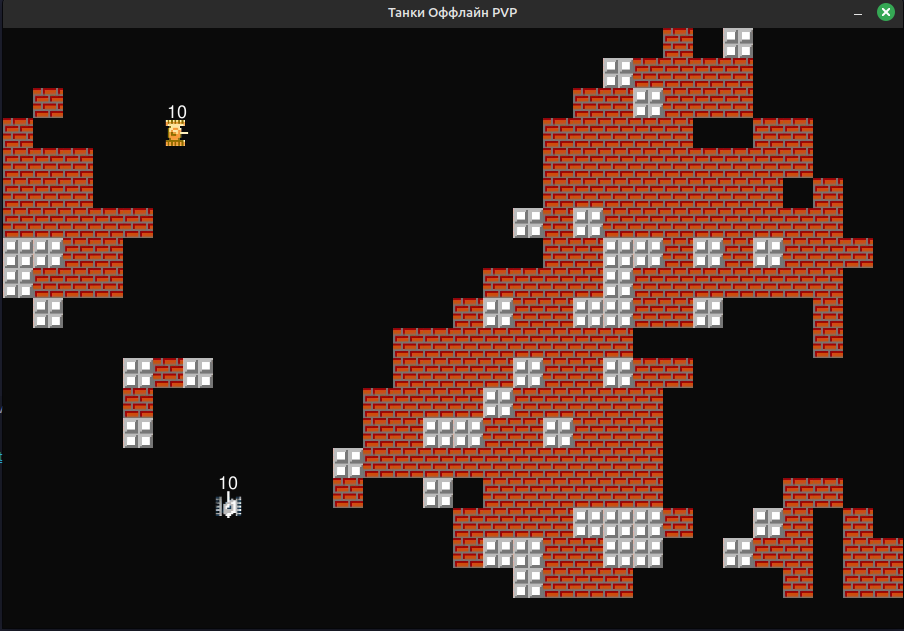
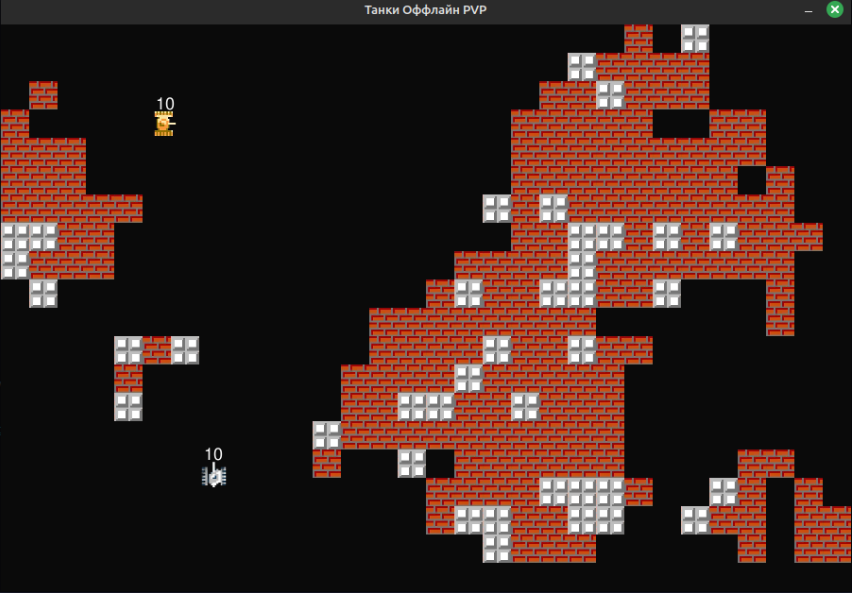
add online game

diff --git a/models.py b/models.py
@@ -2,6 +2,8 @@ import random
 import time
 import pygame
 
+from utils import on_map, get_free_position
+
 delta = [(0, -1), (-1, 0), (0, 1), (1, 0)]
 ways = {pygame.K_UP: (0, -1, 0), pygame.K_DOWN: (0, 1, 2), pygame.K_LEFT: (-1, 0, 1), pygame.K_RIGHT: (1, 0, 3),
         pygame.K_w: (0, -1, 0), pygame.K_s: (0, 1, 2), pygame.K_a: (-1, 0, 1), pygame.K_d: (1, 0, 3)}
@@ -14,20 +16,22 @@ star_surface = pygame.transform.scale(pygame.image.load('images/star.png'), (10,
 
 
 class Tank:
-    def __init__(self, x, y, w, h, team):
+    def __init__(self, x, y, w, h, team, my=False, auto=True):
         self.x, self.y = x, y
         self.w, self.h = w, h
         self.look = 0
+        self.my = my
         self.team = team
+        self.auto = auto
         self.last_attack, self.last_think = 0, 0
         self.stars = 0
         self.hp = 10
         self.p = (-1, 0)
         self.font = pygame.font.Font(pygame.font.match_font('arial'), 18)
-        self.surface = main_tank_surface if team == 0 else enemy_tank_surface
+        self.to_x, self.to_y = 0, 0
 
     def move(self, _tanks, _barriers, _missiles):
-        if self.team == 0:
+        if self.my:
             keys = pygame.key.get_pressed()
             for _key in ways:
                 if keys[_key]:
@@ -50,18 +54,26 @@ class Tank:
                     if _flag:
                         self.x, self.y = _x, _y
                         return 0
-        else:
+        elif self.auto:
             self.think(_tanks, _barriers, _missiles)
+        else:
+            ln = ((self.to_x - self.x) ** 2 + (self.to_y - self.y) ** 2) ** 0.5
+            if self.to_x and 1 < ln < 100:
+                self.x += (self.to_x - self.x) / ln
+                self.y += (self.to_y - self.y) / ln
+            elif ln >= 100:
+                self.x, self.y = self.to_x, self.to_y
 
     def draw(self, _screen):
-        surface = pygame.transform.rotate(self.surface, self.look * 90)
+        raw_surface = main_tank_surface if self.my else enemy_tank_surface
+        surface = pygame.transform.rotate(raw_surface, self.look * 90)
         rect = surface.get_rect(center=(0, 0))
         _screen.blit(surface, (self.x + rect.x, self.y + rect.y))
 
         text_surface = self.font.render(str(self.hp), True, (250, 250, 250))
         _screen.blit(text_surface, (self.x - len(str(self.hp)) * 5, self.y - 30))
 
-        if self.team == 0:
+        if not self.auto:
             for i in range(self.stars):
                 _screen.blit(star_surface, (self.x - self.stars * 5 + i * 10, self.y - 45))
 
@@ -70,7 +82,7 @@ class Tank:
             return 0
 
         x, y = self.x + delta[self.look][0] * 15, self.y + delta[self.look][1] * 15
-        _missiles.append(Missile(x, y, self.w, self.h, self.look, 2, 3, self))
+        _missiles.append(Missile(x, y, self.w, self.h, self.look, 5, 3, self))
         self.last_attack = time.time()
 
     def damage(self, _damage, _tanks, _barriers):
@@ -78,14 +90,15 @@ class Tank:
 
         if self.hp <= 0:
             _tanks.remove(self)
-            if self.team != 0 and len(_tanks) == 1:
-                for _ in range(_tanks[0].stars + 1):
-                    add_new_enemy(_tanks, _barriers, self.team, self.w, self.h)
+            if self.auto and len(_tanks) == 1:
+                for _ in range(_tanks[0].stars // 3 + 1):
+                    _x, _y = get_free_position(_tanks, _barriers, self.w, self.h)
+                    _tanks.append(Tank(_x, _y, self.w, self.h, self.team))
             return True
         return False
 
     def think(self, _tanks, _barriers, _missiles):
-        enemy = [_tank for _tank in _tanks if _tank.team != self.team]
+        enemy = [_tank for _tank in _tanks if self.team != _tank.team]
         if not enemy:
             return 0
 
@@ -197,23 +210,3 @@ class Missile:
 
         if not on_map(self.x, self.y, self.w, self.h):
             _missiles.remove(self)
-
-
-def on_map(_x, _y, n, m):
-    return 0 <= _x < n and 0 <= _y < m
-
-
-def add_new_enemy(_tanks, _barriers, team, _w, _h):
-    flag = False
-    while not flag:
-        flag = True
-        _x, _y = random.randint(0, _w // 30 - 1) * 30, random.randint(0, _h // 30 - 1) * 30
-        for _barrier in _barriers:
-            if _barrier.x <= _x <= _barrier.x + 30 and _barrier.y <= _y <= _barrier.y + 30:
-                flag = False
-
-        if abs(_tanks[0].x - _x) + abs(_tanks[0].y - _y) < 300:
-            flag = False
-
-        if flag:
-            _tanks.append(Tank(_x + 15, _y + 15, _w, _h, team))

diff --git a/online/client.py b/online/client.py
@@ -1,0 +1,64 @@
+
+import socket
+import threading
+import time
+
+from models import Barrier, Tank
+from utils import get_free_position
+
+
+class Client:
+    def __init__(self, _tanks, _barriers, _missiles, _w, _h):
+        self.play = False
+        self.barriers = _barriers
+        self.tanks = _tanks
+        self.missiles = _missiles
+        self.w, self.h = _w, _h
+        self.socket = socket.socket(socket.AF_INET, socket.SOCK_STREAM)
+        self.socket.connect(('0.0.0.0', 8008))
+        threading.Thread(target=self.listener, daemon=True).start()
+
+    def send(self, s: str):
+        self.socket.send(s.encode())
+
+    def listener(self):
+        while True:
+            data = self.socket.recv(1024).decode()
+            if data.startswith('init'):
+                self.play = True
+                if ' ' not in data:
+                    a = [[0] * (self.w // 30) for _ in range(self.h // 30)]
+                    for _barrier in self.barriers:
+                        a[_barrier.y // 30][_barrier.x // 30] = 1 if _barrier.type == 'brick' else 2
+                    self.send('init ' + ''.join([''.join([str(e) for e in line]) for line in a]) + ';')
+                    self.tanks.append(Tank(0, 0, self.w, self.h, 1, auto=False))
+                else:
+                    self.barriers.clear()
+                    data = data[:-1].split()[-1]
+                    for i in range(len(data)):
+                        if data[i] != '0':
+                            x, y = i % (self.w // 30) * 30, i // (self.w // 30) * 30
+                            self.barriers.append(Barrier(x, y, 'brick' if data[i] == '1' else 'metal'))
+
+                    _x, _y = get_free_position(self.tanks, self.barriers, self.w, self.h)
+                    self.tanks[0].x = _x
+                    self.tanks[0].y = _y
+                    self.tanks.append(Tank(0, 0, self.w, self.h, 1, auto=False))
+                threading.Thread(target=self.sender, daemon=True).start()
+
+            if data.startswith('position') and data[-1] == ';':
+                x, y, look = data[:-1].split()[1:]
+                tank = [t for t in self.tanks if not t.my and not t.auto][0]
+                tank.to_x, tank.to_y, tank.look = int(x), int(y), int(look)
+
+            if data.startswith('attack'):
+                tank = [t for t in self.tanks if not t.my and not t.auto][0]
+                tank.attack(self.missiles)
+
+    def sender(self):
+        while True:
+            tank = [t for t in self.tanks if t.my]
+            if not tank:
+                return 0
+            self.send(f'position {tank[0].x} {tank[0].y} {tank[0].look};')
+            time.sleep(0.1)

diff --git a/online/main.py b/online/main.py
@@ -1,17 +1,20 @@
 
 import pygame
 from models import Tank, Barrier
+from online.client import Client
 from utils import generate_map
 
 W, H = 900, 600
 pygame.init()
 screen = pygame.display.set_mode((W, H))
-pygame.display.set_caption('Танки Оффлайн PVP')
+pygame.display.set_caption('Танки PVP')
 barrier_screen = pygame.Surface(screen.get_size())
 
-tanks = [Tank(105, 105, W, H, 0, my=True, auto=False), Tank(W - 75, H - 75, W, H, 1)]
-missiles = []
+tanks = [Tank(105, 105, W, H, 0, my=True, auto=False)]
 barriers = generate_map(tanks, W, H, Barrier)
+missiles = []
+
+client = Client(tanks, barriers, missiles, W, H)
 
 
 game = True
@@ -39,7 +42,8 @@ while game:
 
         if event.type == pygame.KEYDOWN:
             if event.key == pygame.K_RETURN or event.key == pygame.K_SPACE:
-                tanks[0].attack(missiles)
+                [t.attack(missiles) for t in tanks if t.my]
+                client.send('attack;')
 
         if event.type == pygame.MOUSEBUTTONUP and event.button == 1:
             x, y = pygame.mouse.get_pos()
@@ -47,8 +51,8 @@ while game:
             if barrier:
                 barriers.remove(barrier[0])
             else:
-                barriers.append(Barrier(x // 30 * 30, y // 30 * 30, 'metal'))
+                barriers.append(Barrier(x // 30 * 30, y // 30 * 30, 'brick'))
 
         if event.type == pygame.MOUSEBUTTONUP and event.button == 3:
             x, y = pygame.mouse.get_pos()
-            tanks.append(Tank(x // 30 * 30 + 15, y // 30 * 30 + 15, W, H, 1, auto=True))
+            tanks.append(Tank(x // 30 * 30 + 15, y // 30 * 30 + 15, W, H, team=1, auto=True))

diff --git a/utils.py b/utils.py
@@ -1,0 +1,43 @@
+import random
+
+
+def on_map(_x, _y, n, m):
+    return 0 <= _x < n and 0 <= _y < m
+
+
+def get_free_position(_tanks, _barriers, _w, _h):
+    flag = False
+    while not flag:
+        flag = True
+        _x, _y = random.randint(0, _w // 30 - 1) * 30, random.randint(0, _h // 30 - 1) * 30
+        for _barrier in _barriers:
+            if _barrier.x <= _x <= _barrier.x + 30 and _barrier.y <= _y <= _barrier.y + 30:
+                flag = False
+
+        for _t in _tanks:
+            if abs(_t.x - _x) + abs(_t.y - _y) < 200:
+                flag = False
+
+        if flag:
+            return _x + 15, _y + 15
+
+
+def generate_map(tanks, w, h, Barrier):
+    barriers = []
+    while len(barriers) < random.randint(200, 500):
+        x = random.randint(0, w // 30 - 1) * 30
+        y = random.randint(0, h // 30 - 1) * 30
+        flag = True
+        for tank in tanks:
+            if tank.x - 45 < x < tank.x + 15 and tank.y - 45 < y < tank.y + 45:
+                flag = False
+        nei = 0
+        for barrier in barriers:
+            if barrier.x == x and barrier.y == y:
+                flag = False
+            if (barrier.x - x) ** 2 + (barrier.y - y) ** 2 < 40 ** 2:
+                nei += 1
+        if flag and random.random() < 0.001 + 0.1 * nei:
+            barriers.append(Barrier(x, y, 'brick' if random.random() < 0.8 else 'metal'))
+
+    return barriers

diff --git a/online/server.py b/online/server.py
@@ -1,0 +1,32 @@
+import socket
+import threading
+
+
+def listener(_client_socket, _friend_socket):
+    try:
+        while True:
+            data = _client_socket.recv(1024)
+            _friend_socket.sendall(data)
+    except Exception as e:
+        print(e)
+
+
+server_socket = socket.socket(socket.AF_INET, socket.SOCK_STREAM)
+server_socket.bind(('0.0.0.0', 8008))
+server_socket.listen()
+
+clients = []
+print("Сервер запущен и ожидает подключений...")
+
+while True:
+    client_socket, client_address = server_socket.accept()
+    print(f"Подключение установлено с {client_address}")
+    clients.append((client_socket, True))
+
+    free = [i for i, cl in enumerate(clients) if cl[1]]
+    if len(free) > 1:
+        clients[free[0]] = (clients[free[0]][0], False)
+        clients[free[1]] = (clients[free[1]][0], False)
+        clients[free[0]][0].send('init'.encode())
+        threading.Thread(target=listener, args=(clients[free[0]][0], clients[free[1]][0]), daemon=True).start()
+        threading.Thread(target=listener, args=(clients[free[1]][0], clients[free[0]][0]), daemon=True).start()

diff --git a/README.md b/README.md
@@ -1,1 +1,5 @@
+# TanksPVP
+
+### Можно сразиться на танках как с компьютером, так и против друга из любой точки мира.
+
 ![Скриншот](https://github.com/KIvanX/TanksPVP/blob/main/images/screenshot.png)
